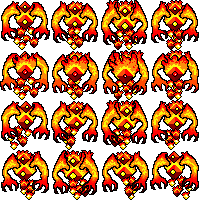
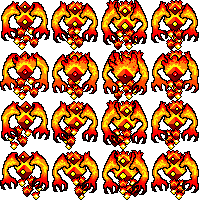
added enemy animation

Changed region(s): [[0.0, 0.75, 1.0, 1.0]]

diff --git a/Game/src/Entities/NPC/EnemyAnimation.cpp b/Game/src/Entities/NPC/EnemyAnimation.cpp
@@ -1,0 +1,85 @@
+#include "EnemyAnimation.h"
+
+void ElementalAnimation(Engine::Entity* player, Engine::Entity* npc, int elemental_type) {
+
+	auto transform = npc->GetComponent<Engine::TransformComponent>();
+	auto pmover = player->GetComponent<Engine::TransformComponent>();
+	auto sprite = npc->GetComponent<Engine::SpriteComponent>();
+
+	bool moveUp = false;
+	bool moveDown = false;
+	bool moveLeft = false;
+	bool moveRight = false;
+	int number_of_frames = 4;
+
+	switch (elemental_type) {
+	case 0:
+		number_of_frames = 3;
+		break;
+	case 1:
+		number_of_frames = 4;
+		break;
+	case 2:
+		number_of_frames = 2;
+		break;
+	case 3:
+		number_of_frames = 2;
+		break;
+	default:
+		number_of_frames = 2;
+		break;
+	}
+
+
+
+
+	if (pmover->m_Position.x > transform->m_Position.x + 50) {
+		moveRight = true;
+
+	}
+	else if (pmover->m_Position.x < transform->m_Position.x - 50) {
+		moveLeft = true;
+
+	}
+
+	if (pmover->m_Position.y > transform->m_Position.y) {
+		moveDown = true;
+
+	}
+	else {
+		moveUp = true;
+
+	}
+
+	if (!(moveUp || moveDown || moveLeft || moveRight)) {
+		int ticks = (SDL_GetTicks() / 200) % number_of_frames;
+
+		SDL_Rect new_rect{ 50 * ticks, 0, 50, 50 };
+		sprite->m_src = new_rect;
+	}
+	else if (moveRight) {
+		int ticks = (SDL_GetTicks() / 200) % number_of_frames;
+
+		SDL_Rect new_rect{ 50 * ticks, 100, 50, 50 };
+		sprite->m_src = new_rect;
+	}
+	else if (moveLeft) {
+		int ticks = (SDL_GetTicks() / 200) % number_of_frames;
+
+		SDL_Rect new_rect{ 50 * ticks, 150, 50, 50 };
+		sprite->m_src = new_rect;
+	}
+	else if (moveDown) {
+		int ticks = (SDL_GetTicks() / 200) % number_of_frames;
+
+		SDL_Rect new_rect{ 50 * ticks, 0, 50, 50 };
+		sprite->m_src = new_rect;
+	}
+	else if (moveUp) {
+		int ticks = (SDL_GetTicks() / 200) % number_of_frames;
+
+		SDL_Rect new_rect{ 50 * ticks, 50, 50, 50 };
+		sprite->m_src = new_rect;
+	}
+
+}

diff --git a/Game/src/Entities/NPC/EnemiesFactory.cpp b/Game/src/Entities/NPC/EnemiesFactory.cpp
@@ -37,16 +37,16 @@ namespace Game
 			switch (enemyType)
 			{
 			case 0:
-				m_WaterNPCController->Init(entityManager, texture->GetTexture("enemy"), m_SpawnPositions[randomPosition]);
+				m_WaterNPCController->Init(entityManager, texture->GetTexture("water"), m_SpawnPositions[randomPosition]);
 				break;
 			case 1:
-				m_FireNPCController->Init(entityManager, texture->GetTexture("enemy"), m_SpawnPositions[randomPosition]);
+				m_FireNPCController->Init(entityManager, texture->GetTexture("fire"), m_SpawnPositions[randomPosition]);
 				break;
 			case 2:
-				m_WindNPCController->Init(entityManager, texture->GetTexture("enemy"), m_SpawnPositions[randomPosition]);
+				m_WindNPCController->Init(entityManager, texture->GetTexture("fire"), m_SpawnPositions[randomPosition]);
 				break;
 			case 3:
-				m_EarthNPCController->Init(entityManager, texture->GetTexture("enemy"), m_SpawnPositions[randomPosition]);
+				m_EarthNPCController->Init(entityManager, texture->GetTexture("earth"), m_SpawnPositions[randomPosition]);
 				break;
 			default:
 				ASSERT(randomPosition>3 || randomPosition<0, "Out of range: [0,3]");

diff --git a/Game/src/Entities/NPC/Controllers/WindNPCController.cpp b/Game/src/Entities/NPC/Controllers/WindNPCController.cpp
@@ -3,6 +3,7 @@
 #include "WindNPCController.h"
 
 #include "Entities/NPC/EnemySpecificEntities.h"
+#include "..//EnemyAnimation.h"
 
 namespace Game
 {
@@ -19,6 +20,10 @@ namespace Game
 		enemy->AddComponent<Engine::CollisionComponent>(50.f, 50.f);
 		enemy->AddComponent<Engine::MoverComponent>();
 		enemy->AddComponent<Engine::SpriteComponent>().m_Image = texture;
+		auto* sprite = enemy->GetComponent<Engine::SpriteComponent>();
+		SDL_Rect new_rect{ 0, 0, 50, 50 };
+		sprite->m_src = new_rect;
+		sprite->m_Animation = true;
 		entityManager->AddEntity(std::move(enemy));
 
 		return true;
@@ -33,6 +38,7 @@ namespace Game
 			auto mover = enemy->GetComponent<Engine::MoverComponent>();
 			mover->m_TranslationSpeed.x = mover->m_TranslationSpeed.x * 1.75f;
 			mover->m_TranslationSpeed.y = mover->m_TranslationSpeed.y * 1.75f;
+			ElementalAnimation(entityManager->GetAllEntitiesWithComponent<Engine::PlayerComponent>()[0], enemy, 2);
 		}
 	}
 

diff --git a/Game/src/Entities/NPC/Controllers/EarthNPCController.cpp b/Game/src/Entities/NPC/Controllers/EarthNPCController.cpp
@@ -3,6 +3,7 @@
 #include "EarthNPCController.h"
 
 #include "Entities/NPC/EnemySpecificEntities.h"
+#include "..//EnemyAnimation.h"
 
 namespace Game
 {
@@ -19,6 +20,10 @@ namespace Game
 		enemy->AddComponent<Engine::CollisionComponent>(50.f, 50.f);
 		enemy->AddComponent<Engine::MoverComponent>();
 		enemy->AddComponent<Engine::SpriteComponent>().m_Image = texture;
+		auto* sprite = enemy->GetComponent<Engine::SpriteComponent>();
+		SDL_Rect new_rect{ 0, 0, 50, 50 };
+		sprite->m_src = new_rect;
+		sprite->m_Animation = true;
 		entityManager->AddEntity(std::move(enemy));
 
 		return true;
@@ -33,6 +38,7 @@ namespace Game
 			auto mover = enemy->GetComponent<Engine::MoverComponent>();
 			mover->m_TranslationSpeed.x = mover->m_TranslationSpeed.x * 0.4f;
 			mover->m_TranslationSpeed.y = mover->m_TranslationSpeed.y * 0.4f;
+			ElementalAnimation(entityManager->GetAllEntitiesWithComponent<Engine::PlayerComponent>()[0], enemy, 3);
 		}
 	}
 

diff --git a/Game/src/Entities/NPC/Controllers/FireNPCController.cpp b/Game/src/Entities/NPC/Controllers/FireNPCController.cpp
@@ -3,6 +3,7 @@
 #include "FireNPCController.h"
 
 #include "Entities/NPC/EnemySpecificEntities.h"
+#include "..//EnemyAnimation.h"
 
 namespace Game
 {
@@ -19,6 +20,12 @@ namespace Game
 		enemy->AddComponent<Engine::CollisionComponent>(50.f, 50.f);
 		enemy->AddComponent<Engine::MoverComponent>();
 		enemy->AddComponent<Engine::SpriteComponent>().m_Image = texture;
+
+		auto* sprite = enemy->GetComponent<Engine::SpriteComponent>();
+		SDL_Rect new_rect{ 0, 0, 50, 50 };
+		sprite->m_src = new_rect;
+		sprite->m_Animation = true;
+
 		entityManager->AddEntity(std::move(enemy));
 
 		return true;
@@ -31,6 +38,7 @@ namespace Game
 		for (auto& enemy : efireNPC)
 		{
 			// CPU
+			ElementalAnimation(entityManager->GetAllEntitiesWithComponent<Engine::PlayerComponent>()[0], enemy, 1);
 		}
 	}
 

diff --git a/Game/src/Entities/NPC/Controllers/WaterNPCController.cpp b/Game/src/Entities/NPC/Controllers/WaterNPCController.cpp
@@ -3,6 +3,7 @@
 #include "WaterNPCController.h"
 
 #include "Entities/NPC/EnemySpecificEntities.h"
+#include "..//EnemyAnimation.h"
 
 namespace Game
 {
@@ -21,6 +22,10 @@ namespace Game
 		enemy->AddComponent<Engine::CollisionComponent>(50.f, 50.f);
 		enemy->AddComponent<Engine::MoverComponent>();
 		enemy->AddComponent<Engine::SpriteComponent>().m_Image = texture;
+		auto* sprite = enemy->GetComponent<Engine::SpriteComponent>();
+		SDL_Rect new_rect{ 0, 0, 50, 50 };
+		sprite->m_src = new_rect;
+		sprite->m_Animation = true;
 		entityManager->AddEntity(std::move(enemy));
 
 		return true;
@@ -33,6 +38,7 @@ namespace Game
 		for (auto& enemy : ewaterNPC)
 		{
 			// CPU
+			ElementalAnimation(entityManager->GetAllEntitiesWithComponent<Engine::PlayerComponent>()[0], enemy, 0);
 		}
 	}
 

diff --git a/Game/src/Core/GameApp.cpp b/Game/src/Core/GameApp.cpp
@@ -72,5 +72,9 @@ void Game::GameApp::LoadTextures()
 
 	m_TextureManager->CreateTexture(renderer, "mage", "Data/mage_3.png");
 	m_TextureManager->CreateTexture(renderer, "blank", "Data/blank.png");
+	m_TextureManager->CreateTexture(renderer, "water", "Data/WaterElemental.png");
+	m_TextureManager->CreateTexture(renderer, "fire", "Data/FireElemental.png");
+	m_TextureManager->CreateTexture(renderer, "earth", "Data/earth_elemental.png");
+	
 }
 

diff --git a/Engine/src/NPC/NPCSystem.cpp b/Engine/src/NPC/NPCSystem.cpp
@@ -59,6 +59,7 @@ namespace Engine
 			}
 			mover->m_TranslationSpeed.x = (addition < twoPI) ? (std::cosf(angle) * 200.f) : (-mover->m_TranslationSpeed.x);
 			mover->m_TranslationSpeed.y = (addition < twoPI) ? (std::sinf(angle) * 200.f)  : (-mover->m_TranslationSpeed.y);
+
 		}
 	}
 

diff --git a/Game/src/Entities/NPC/EnemyAnimation.h b/Game/src/Entities/NPC/EnemyAnimation.h
@@ -1,0 +1,5 @@
+#pragma once
+#include <precomp.h>
+
+void ElementalAnimation(Engine::Entity* player, Engine::Entity* npc, int elemental_type);
+
